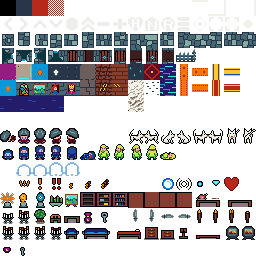
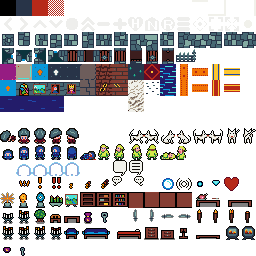
Speech bubbles over speaking guards

diff --git a/src/game.ts b/src/game.ts
@@ -1500,32 +1500,38 @@ function renderParticles(state: State, renderer: Renderer) {
 }
 
 function renderIconOverlays(state: State, renderer: Renderer) {
-        const player = state.player
-        for (const guard of state.gameMap.guards) {
+    const player = state.player
+    const bubble_right = renderer.tileSet.namedTiles['speechBubbleR'];
+    const bubble_left = renderer.tileSet.namedTiles['speechBubbleL'];
+    for (const guard of state.gameMap.guards) {
         const cell = state.gameMap.cells.atVec(guard.pos);
         const visible = state.seeAll || cell.seen || guard.speaking;
         if (!visible && vec2.squaredDistance(state.player.pos, guard.pos) > 36) {
             continue;
         }
 
-        const guardState = guard.overheadIcon();
-        let gtile:TileInfo;
-        if (guardState!==GuardStates.Relaxed) {
-            gtile = renderer.tileSet.guardStateTiles[guardState]
-        } else {
-            // Render the shadowing indicator if player is shadowing a guard
-            if (guard === player.pickTarget) {
-                gtile = tileSet.namedTiles['pickTarget'];
+        let offset = guard.animation?.offset?? vec2.create();
+        const x = guard.pos[0] + offset[0];
+        const y = guard.pos[1] + offset[1];
+
+        if(guard.speaking) {
+            const dir = guard.dir[0];
+            if(dir>=0) {
+                renderer.addGlyph(x+1, y, x+2, y+1, bubble_right, 1);
             } else {
-                continue;
+                renderer.addGlyph(x-1, y, x, y+1, bubble_left, 1);
             }
         }
 
-        let offset = guard.animation?.offset?? vec2.create();
-        const x = guard.pos[0] + offset[0];
-        const y = guard.pos[1] + offset[1] + 0.625;
-
-        renderer.addGlyph(x, y, x+1, y+1, gtile, 1);
+        const guardState = guard.overheadIcon();
+        if (guardState!==GuardStates.Relaxed) {
+            const gtile = renderer.tileSet.guardStateTiles[guardState]
+            renderer.addGlyph(x, y+0.625, x+1, y+1.625, gtile, 1);
+        } else if (guard === player.pickTarget) {
+            // Render the shadowing indicator if player is shadowing a guard
+            const gtile = tileSet.namedTiles['pickTarget'];
+            renderer.addGlyph(x, y+0.625, x+1, y+1.625, gtile, 1);
+        } 
     }
 
     // Render an icon over the player if the player is being noisy

diff --git a/src/guard.ts b/src/guard.ts
@@ -176,6 +176,7 @@ class Guard {
                 if (modePrev == GuardMode.ChaseVisibleTarget) {
                     if (!player.damagedLastTurn) {
                         popups.add(PopupType.Damage, this.pos);
+                        this.speaking = true;
                     }
                     const startend = vec2.create();
                     const middle = vec2.create();
@@ -272,12 +273,14 @@ class Guard {
             if (this.modeTimeout === 5) {
                 const popup = PopupType.GuardStirring;
                 popups.add(popup, this.pos);
+                this.speaking = true;
             } else if (this.modeTimeout <= 0) {
                 this.enterPatrolMode(map);
                 this.modeTimeout = 0;
                 this.angry = true;
                 shouts.push({pos_shouter: this.pos, pos_target: this.pos, target:this});
                 popups.add(PopupType.GuardAwakesWarning, this.pos);
+                this.speaking = true;
             }
             break;
         }
@@ -387,10 +390,12 @@ class Guard {
         const popupType = popupTypeForStateChange(modePrev, this.mode);
         if (popupType !== undefined) {
             popups.add(popupType, this.pos);
+            this.speaking = true;
         }
     
         if (this.mode === GuardMode.ChaseVisibleTarget && modePrev !== GuardMode.ChaseVisibleTarget) {
             shouts.push({pos_shouter: this.pos, pos_target: player.pos, target: player});
+            this.speaking = true;
         }
     }
 

diff --git a/src/tilesets.ts b/src/tilesets.ts
@@ -82,6 +82,8 @@ const tileSet31Color:TileSet = {
         noise: {textureIndex: 0xbb, color: 0x80ffffff},
         crossHatch: {textureIndex:3, color:0xffffffff},
         patrolRoute: {textureIndex:0x1f, color:0xff80ff80},
+        speechBubbleR: {textureIndex:0xb7, color:0xffffffff},
+        speechBubbleL: {textureIndex:0xb8, color:0xffffffff},
 
     },
     touchButtons: {
